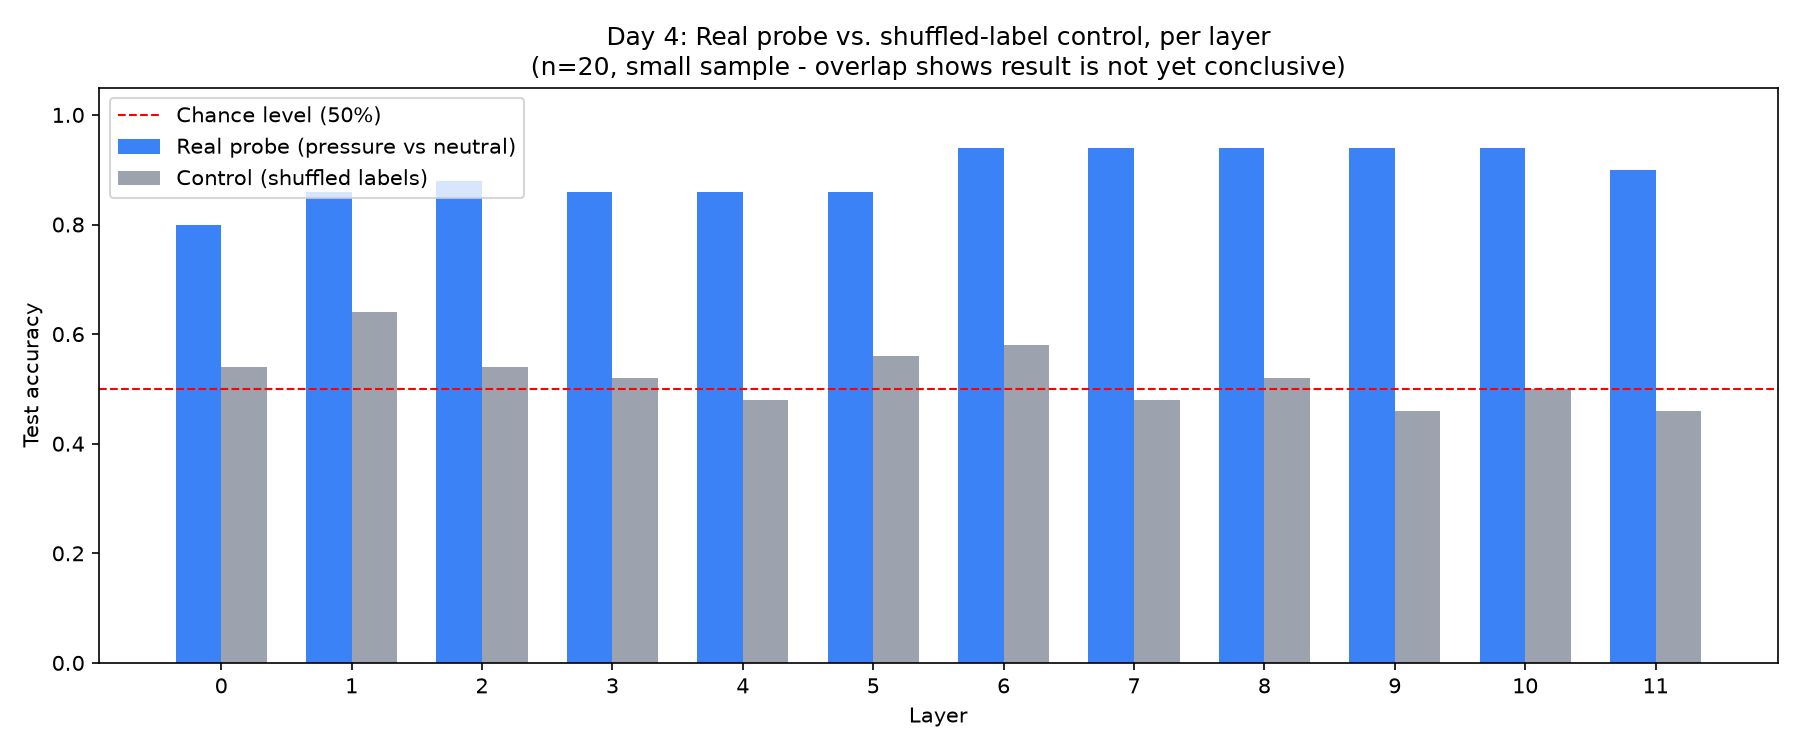
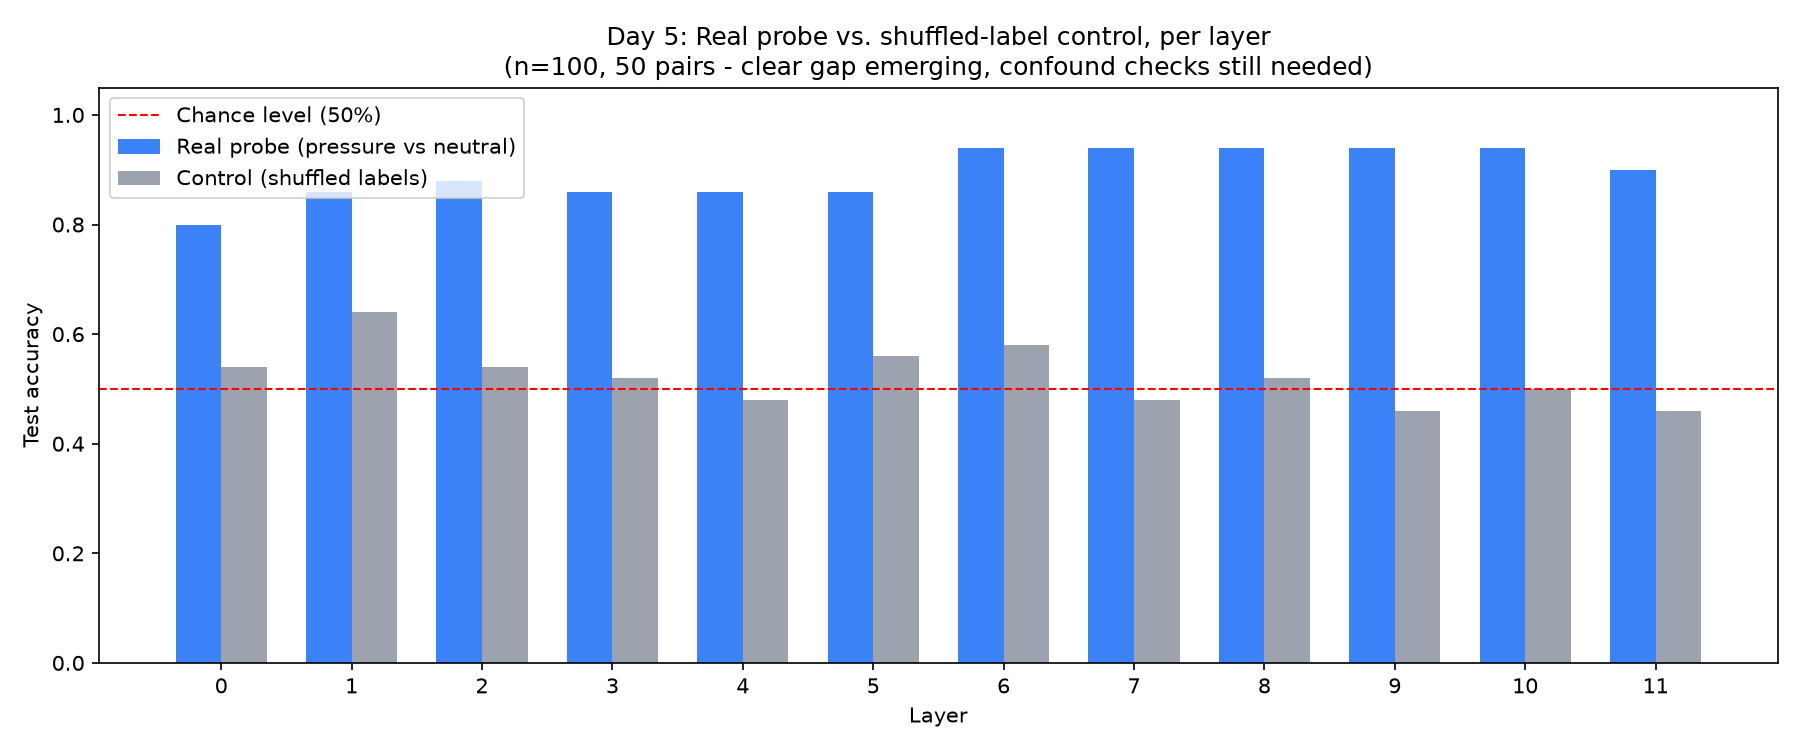
Fix stale chart title (n=20 -> n=100)

Changed region(s): [[0.28, 0.0613, 0.7778, 0.1227]]

diff --git a/src/day4_visualize.py b/src/day4_visualize.py
@@ -28,8 +28,8 @@ ax.axhline(y=0.5, color="red", linestyle="--", linewidth=1, label="Chance level 
 
 ax.set_xlabel("Layer")
 ax.set_ylabel("Test accuracy")
-ax.set_title("Day 4: Real probe vs. shuffled-label control, per layer\n"
-             "(n=20, small sample - overlap shows result is not yet conclusive)")
+ax.set_title("Day 5: Real probe vs. shuffled-label control, per layer\n"
+             "(n=100, 50 pairs - clear gap emerging, confound checks still needed)")
 ax.set_xticks(x)
 ax.set_xticklabels(layers)
 ax.set_ylim(0, 1.05)